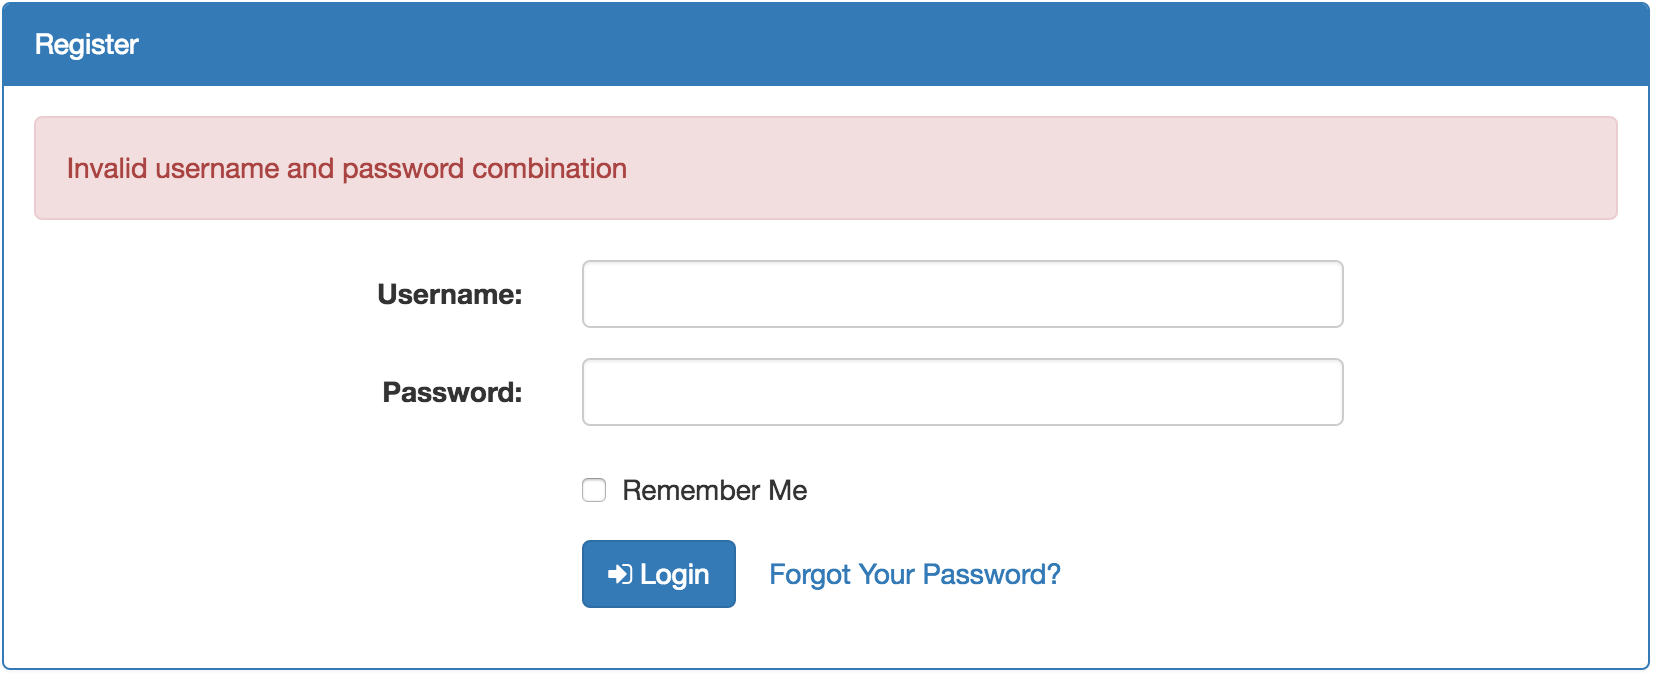
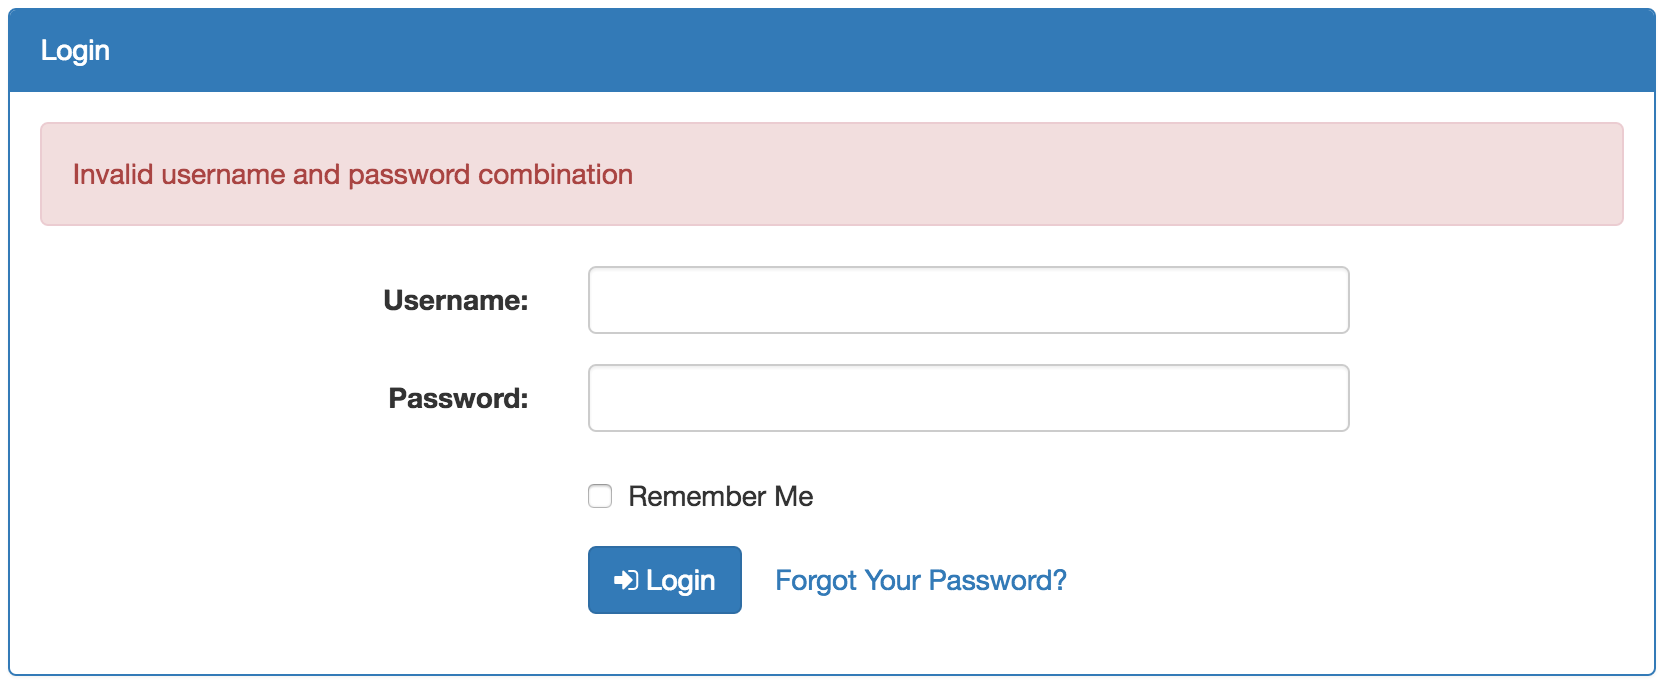
fix image url

diff --git a/includes/forms/login-form.php b/includes/forms/login-form.php
@@ -7,7 +7,7 @@ function login_form()
     <?php session_start(); ?>
     <div class="col-md-8 col-md-offset-2" style="margin-top: 50px;">
         <div class="panel panel-primary">
-             <div class="panel-heading">Register</div>
+             <div class="panel-heading">Login</div>
              <div class="panel-body additional-fields-panel">
 
                 <?php if( errorsHas("login-error") ): ?>
